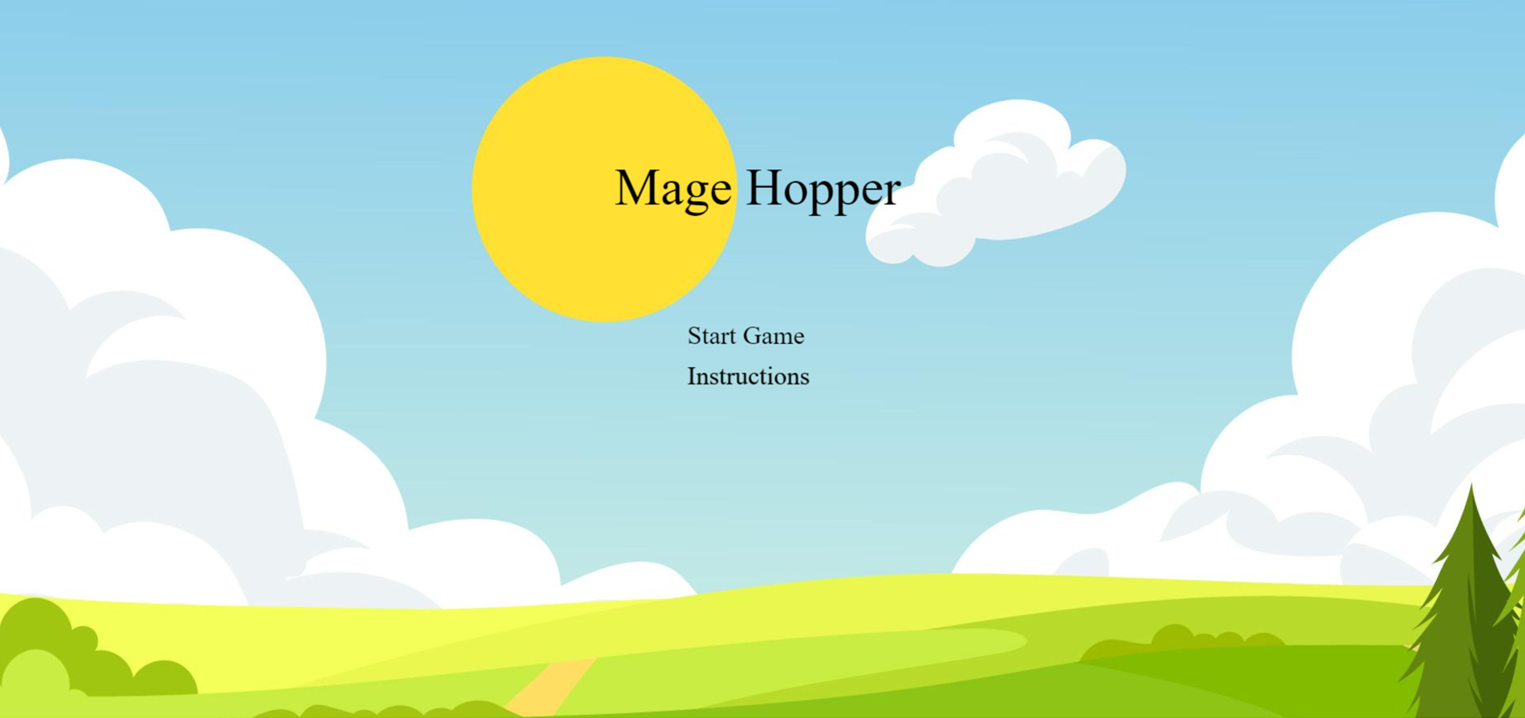
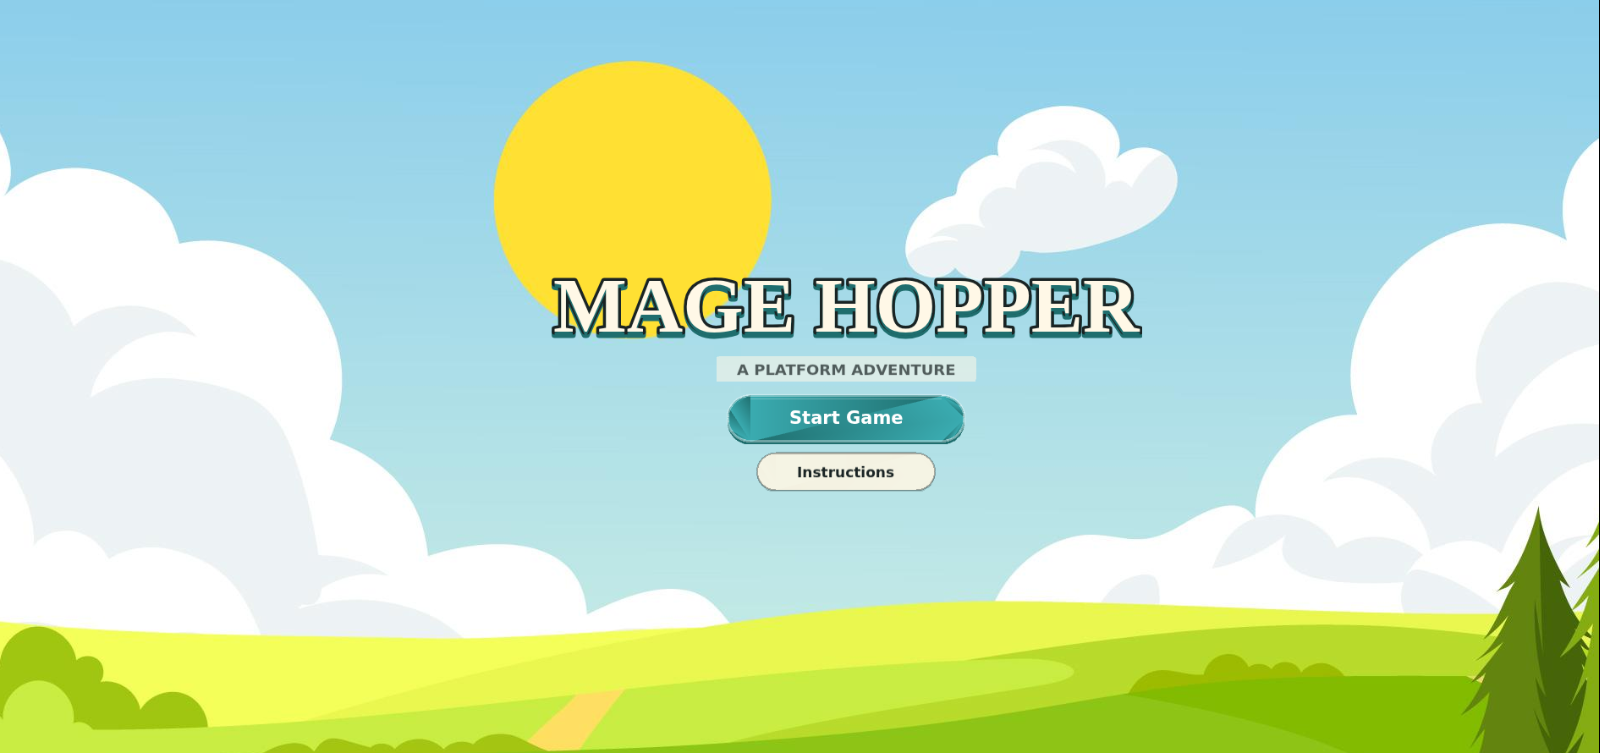
Update README with fresh in-game screenshots and current controls
The old screenshots and instructions predated the FIRE/SLAM attacks,
the current pill-button menu, and the in-game "How to play" overlay —
the old instructions pages were Canva mockups, not actual gameplay.
Replaced them with real captures of the current build and documented
the Fire/Slam controls and mobile touch support. Also added a short
Project Structure section describing the src/ module layout from the
app.js refactor.

Claude-Session: https://claude.ai/code/session_01UJgcAvF9gFWHzFSAcSuYy3

diff --git a/README.md b/README.md
@@ -1,44 +1,66 @@
 # Mage Hopper
 
-Mage Hopper is an exciting platformer game where you navigate through levels, collect keys, and avoid enemies to progress.
+Mage Hopper is a platformer where you hop across floating platforms as a fire mage, blast knights with FIRE bolts and staff SLAM waves, collect the key on each stage, and reach the door before you run out of lives. Clear all 5 levels to win. Playable on desktop and mobile.
 
 **Play the game [here](https://rschleckser.github.io/mage-hopper/)**
 
-
-
 ## Instructions
 
-1. **Start Game**: Click on "Start Game" to begin playing.
+1. **Start Game**: Click "Start Game" on the main menu to begin, or "Instructions" for an in-game walkthrough of controls, objective, and tips.
 2. **Controls**:
-   - Move Left: `Left Arrow Key` or `A`
-   - Move Right: `Right Arrow Key` or `D`
-   - Jump: `Up Arrow Key` or `W`
-3. **Collect Keys**: Collect keys to unlock the door and progress to the next level.
-4. **Avoid Enemies**: Watch out for enemies. Touching them will cost you a life.
-5. **Game Over**: Lose all your lives and it's game over. You can choose to play again or quit.
-6. **Level Win**: Reach the door with the key to advance to the next level.
-7. **Game Win**: Complete all levels to win the game!
+   - Move Left: `Left Arrow` or `A`
+   - Move Right: `Right Arrow` or `D`
+   - Jump: `Up Arrow` or `W`
+   - Fire: `F` — shoots a bolt straight ahead
+   - Slam: `E` — a stronger staff-swing wave attack
+   - On mobile/touch devices, on-screen JUMP / FIRE / SLAM buttons and a directional pad appear automatically.
+3. **Defeat Enemies**: Knights patrol the platforms and chase you — take them out with FIRE or SLAM before they touch you.
+4. **Collect the Key**: Find the key on each level, then reach the door to advance.
+5. **Avoid Damage**: Getting touched by an enemy costs a life (3 lives per run, with a brief invulnerability window after each hit).
+6. **Game Over**: Lose all your lives and it's game over — play again or return to the menu.
+7. **Level Win**: Reach the door with the key to advance to the next level (5 levels total).
+8. **Game Win**: Clear all 5 levels to win the game!
 
 ## Screenshots
 
+### Main Menu
+
 ![Main Menu Screenshot](./img/Main_Menu.png)
 
-## GamePlay
+### Gameplay
 
 ![Gameplay Screenshot](./img/GamePlay.png)
 
-## Preview Instructions
+### In-Game Instructions
 
-![Game Instructions](./img/instructions_page_1.png)
-![Game Instructions](./img/instructions_page_2.png)
-![Game Instructions](./img/instructions_page_3.png)
+![Game Instructions - Controls](./img/instructions_page_1.png)
+![Game Instructions - Quest](./img/instructions_page_2.png)
+![Game Instructions - Tips](./img/instructions_page_3.png)
 
 ## Technologies Used
 
-- HTML
-- CSS
-- JavaScript
-- Phaser
+- HTML5 / CSS3
+- JavaScript (ES Modules — no build step or bundler required)
+- [Phaser 3](https://phaser.io/) game framework
+
+## Project Structure
+
+The game logic lives under `src/`, organized by responsibility:
+
+```
+src/
+  entities/       Projectile and slam-wave sprite classes + pools
+  ui/             Reusable pill-button UI kit and DOM overlay helpers
+  scenes/         Menu, Game Over, Level Win, Game Win scenes
+  scenes/game-scene/  Animations, player state machine, enemy AI, combat
+  levels.js       Per-level key/door spawn points and platform layout
+  game-state.js   Shared run state (lives, level, key collected)
+  constants.js    Gameplay tuning values (speeds, hitboxes, etc.)
+  input.js        Touch/mobile control handling
+  main.js         Phaser config and game bootstrap
+```
+
+`index.html` loads `src/main.js` directly as an ES module — just open it through a local static server (no `npm install` or build required).
 
 ## Credits
 
